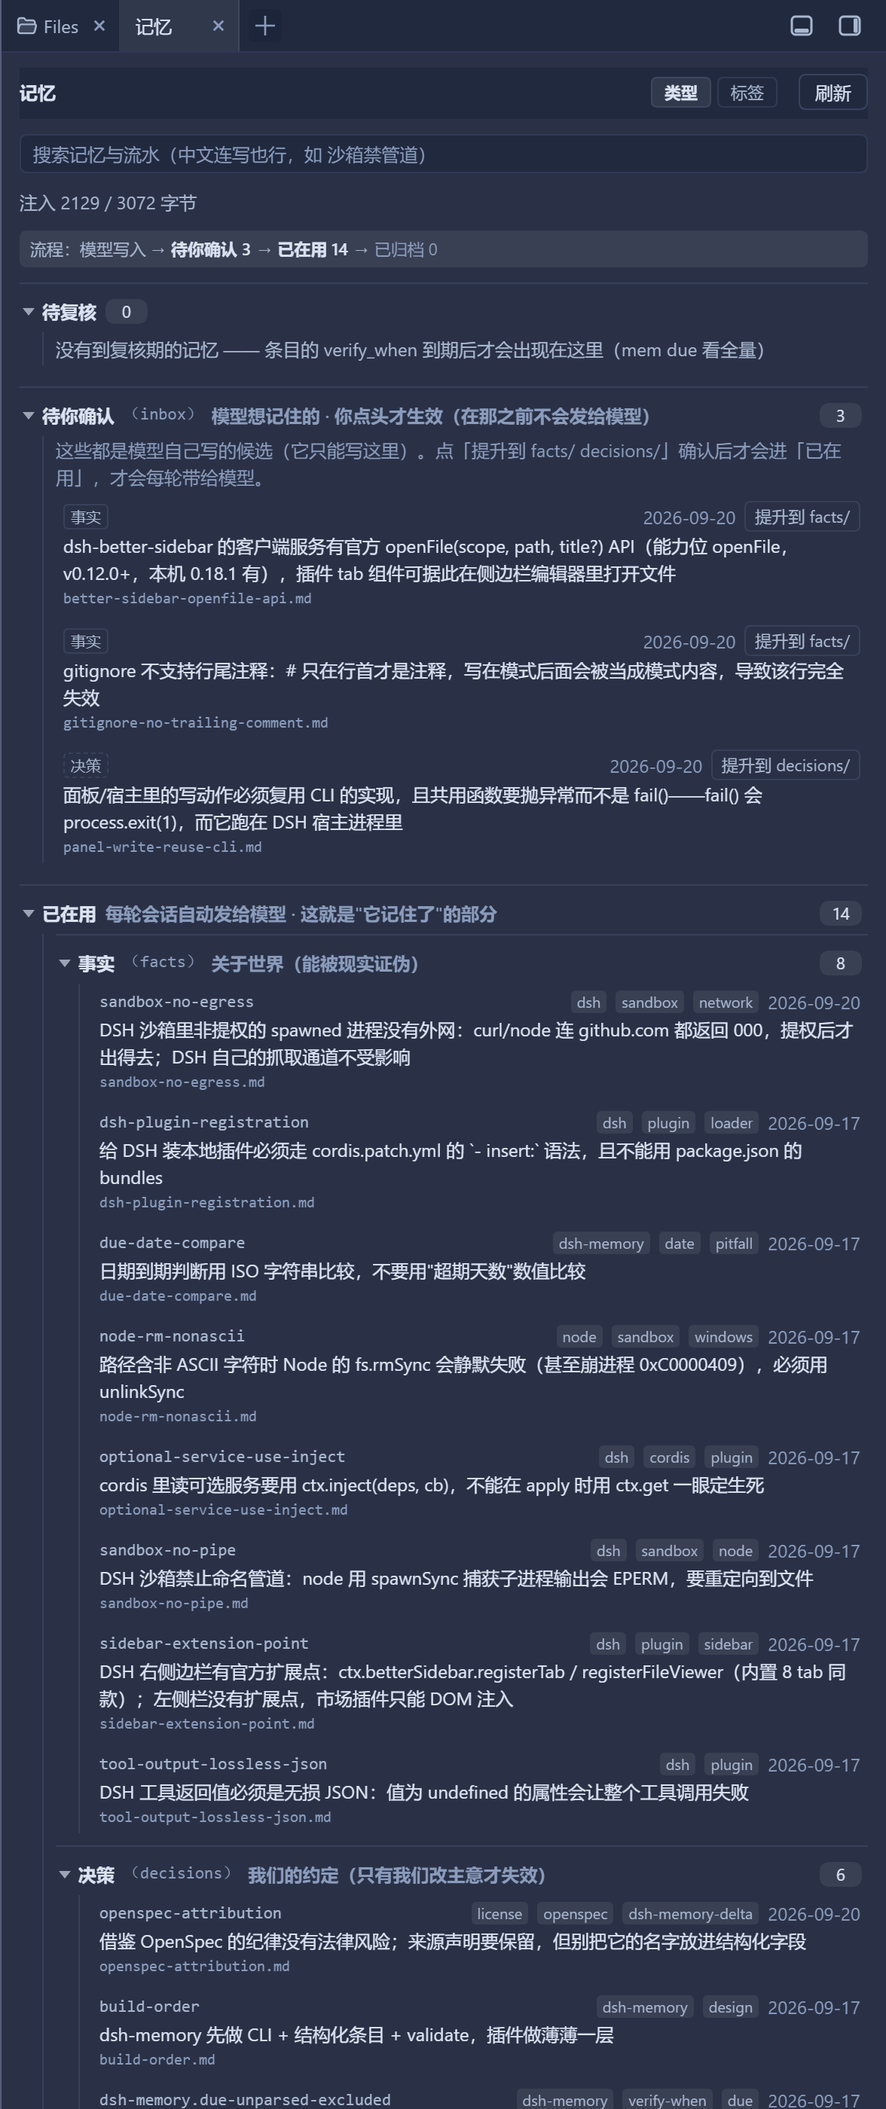
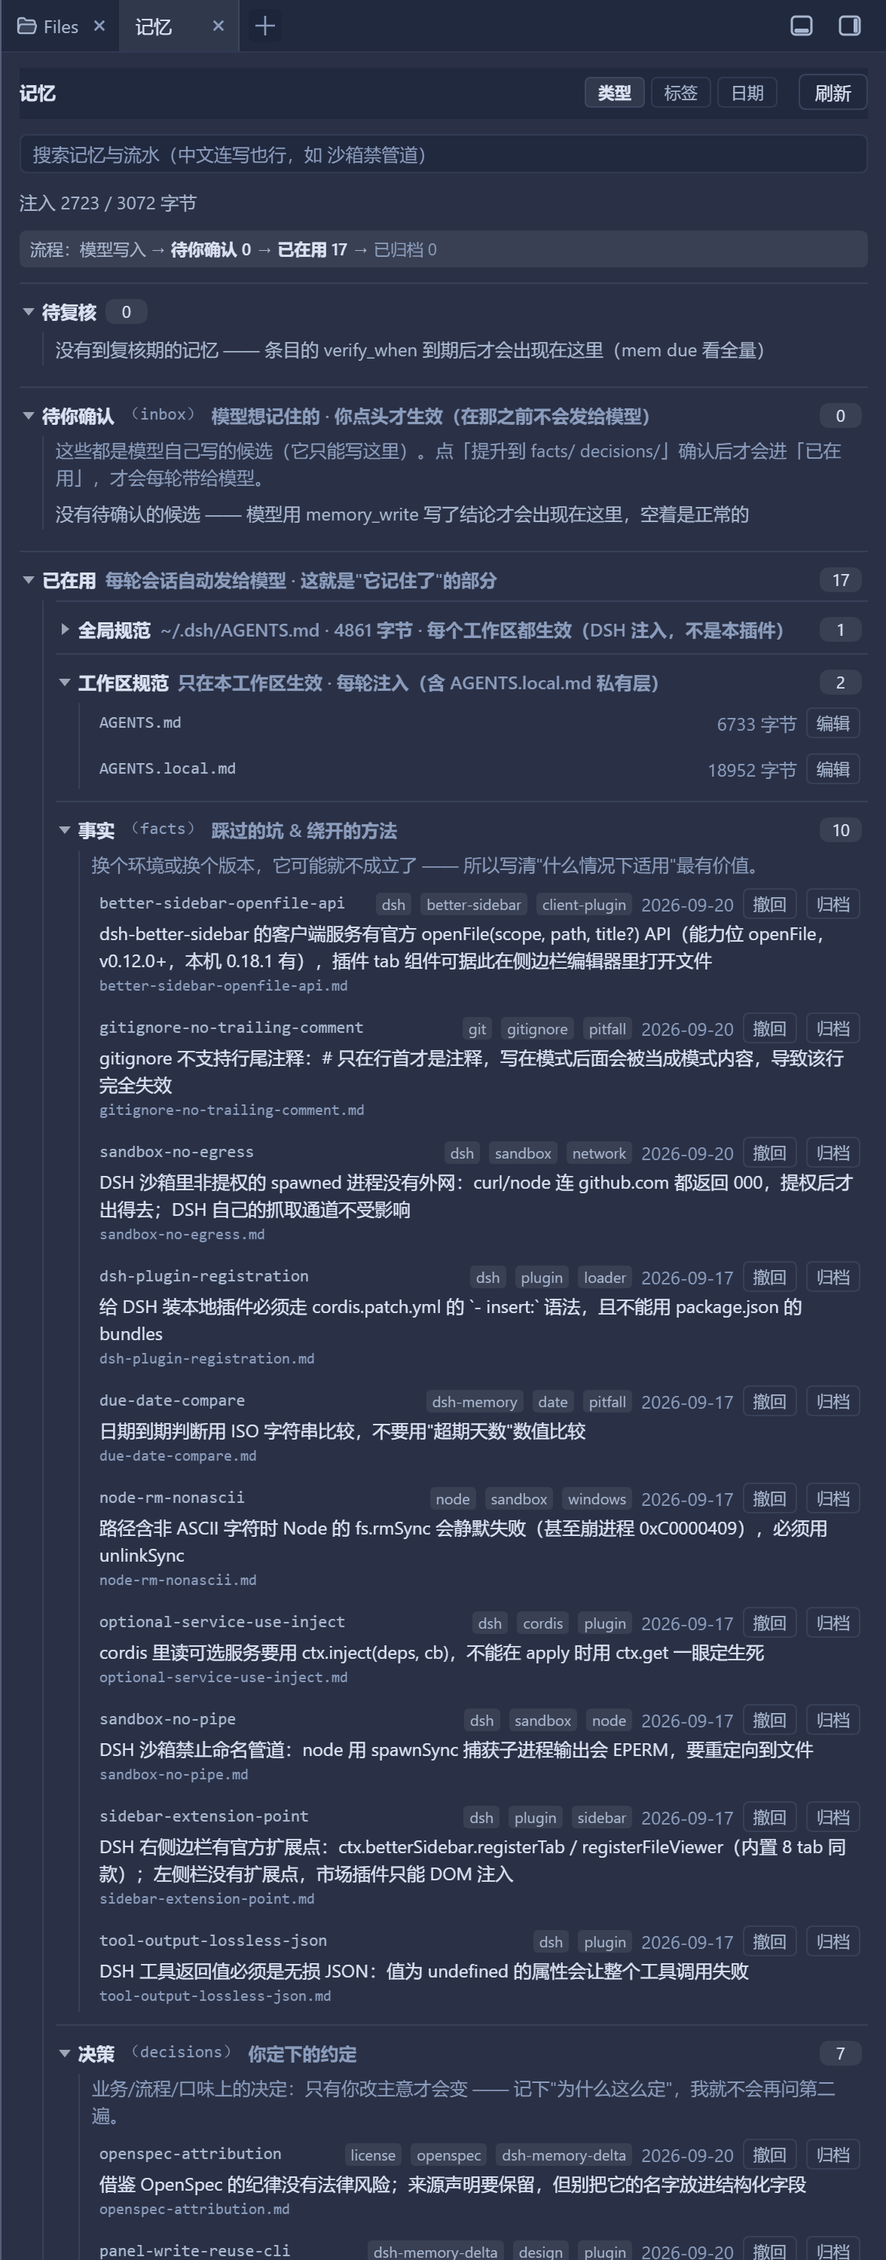
面板加第三个分组维度「日期」+ 重拍 README 截图
用户问能不能"按年月日区分"，评估结论：能做，而且**纯客户端**（条目本来就带 date，宿主不用改、不用重启）。

- 头部三档切换：类型（事实/决策，回答"该放哪边"）/ 标签（按主题）/ 日期（同一天一组，新的在前）
- 日期分组带人话标注：今天 / 昨天 / 前天 / 周几 —— 用宿主回传的 state.today 算差，不靠浏览器本地时区猜
- 日期视图里条目自己标出是事实还是决策（复用 showType），否则丢了类型信息
- 没写 date 的条目归到最后的「没有日期」，不静默丢掉
- **不做**"按年月/时间轴/热力图"：日粒度已经够回答"我什么时候记的这条"，
  再往上就是早前被否掉的看板类过度设计
- 重拍 README 截图：现在含三个维度按钮、全局/工作区规范、撤回+归档按钮、阶段分组
- 文档：README 中英面板行补三个维度；design.md 第⑩节记下取舍；断言数同步到 825

全套 817 → 825 断言绿（client 170→178）

diff --git a/client/client.js b/client/client.js
@@ -1112,6 +1112,16 @@ window.__ModuleLoader__.load({
             { type: 'button', className: groupBy === 'tag' ? 'is-on' : undefined, onClick: () => setGroupBy('tag'), title: '按标签分组（取每条的第一个标签）' },
             '标签',
           ),
+          h(
+            'button',
+            {
+              type: 'button',
+              className: groupBy === 'date' ? 'is-on' : undefined,
+              onClick: () => setGroupBy('date'),
+              title: '按记录日期分组（同一天的归一组，新的在前）',
+            },
+            '日期',
+          ),
         ),
         h(
           'button',
@@ -1328,6 +1338,37 @@ window.__ModuleLoader__.load({
         return named;
       };
 
+      /**
+       * 按记录日期分组（第三个维度）：
+       * 同一天归一组、**新的在前**；日期还带上人话（今天 / 昨天 / 周几），
+       * 这样"我什么时候记的这条"一眼就有 —— 比一串 ISO 日期好读。
+       */
+      const TODAY = typeof state.today === 'string' && /^\d{4}-\d{2}-\d{2}$/.test(state.today) ? state.today : null;
+      const dayLabel = (day) => {
+        if (day === '__nodate__') return '没有日期';
+        if (!TODAY) return day;
+        const diff = (Date.parse(`${TODAY}T00:00:00Z`) - Date.parse(`${day}T00:00:00Z`)) / 86400000;
+        if (diff === 0) return `${day}（今天）`;
+        if (diff === 1) return `${day}（昨天）`;
+        if (diff === 2) return `${day}（前天）`;
+        const week = '日一二三四五六'[new Date(`${day}T00:00:00Z`).getUTCDay()];
+        return diff > 0 ? `${day}（周${week}）` : `${day}（未来）`;
+      };
+      const dateGroups = () => {
+        const map = new Map();
+        for (const e of entries) {
+          const day = typeof e.date === 'string' && /^\d{4}-\d{2}-\d{2}$/.test(e.date) ? e.date : '__nodate__';
+          if (!map.has(day)) map.set(day, []);
+          map.get(day).push(e);
+        }
+        const days = [...map.entries()].filter(([k]) => k !== '__nodate__');
+        // ISO 日期字符串按字典序倒排 == 时间倒序（新的一天在最上面）
+        days.sort((a, b) => b[0].localeCompare(a[0]));
+        const nodate = map.get('__nodate__');
+        if (nodate) days.push(['__nodate__', nodate]);
+        return days;
+      };
+
       const facts = entries.filter((e) => e.type === 'fact');
       const decisions = entries.filter((e) => e.type === 'decision');
       const other = entries.filter((e) => e.type !== 'fact' && e.type !== 'decision');
@@ -1336,7 +1377,8 @@ window.__ModuleLoader__.load({
          阶段视角：这一层 = "每轮会话都会自动发给模型"的结论。
          类型（事实/决策）是**这一层内部**的子分组 —— 它回答的是"这条该放哪边"，
          不是"这条在流程哪一步"。以前把类型放在最外层，于是流程位置只能靠小字注释，
-         结果是"一眼看不出是干啥的"（真实反馈）。 */
+         结果是"一眼看不出是干啥的"（真实反馈）。
+         三个维度可切换：类型（该放哪边）/ 标签（按主题）/ 日期（什么时候记的）。 */
       const standingBody =
         groupBy === 'tag'
           ? tagGroups().map(([tag, list]) =>
@@ -1353,7 +1395,22 @@ window.__ModuleLoader__.load({
                 byDateDesc(list).map((e) => renderItem(e, { showType: true })),
               ),
             )
-          : [
+          : groupBy === 'date'
+            ? dateGroups().map(([day, list]) =>
+                section(
+                  {
+                    key: `date:${day}`,
+                    title: dayLabel(day),
+                    slug: null,
+                    count: list.length,
+                    hint: day === '__nodate__' ? '条目没写 date' : '按记录日期',
+                    open: isOpen(`date:${day}`),
+                    onToggle: () => toggleSection(`date:${day}`),
+                  },
+                  byDateDesc(list).map((e) => renderItem(e, { showType: true })),
+                ),
+              )
+            : [
               groupSection(
                 'facts',
                 '事实',

diff --git a/README.md b/README.md
@@ -12,7 +12,7 @@ zero-dependency standalone CLI. It borrows the *spec / change / archive* discipl
 > please file issues and pull requests on GitHub.
 
 > Status: **M1–M4 done**; M3/M4 (differential injection, both tools, the distillation nudge) were
-> verified inside a real DSH session, and the M5 improvements below are covered by 802 assertions
+> verified inside a real DSH session, and the M5 improvements below are covered by 825 assertions
 > plus a real-machine preflight. See [Verification](#verification).
 
 ## Why
@@ -144,7 +144,7 @@ Seven rules:
 | `memory_write` | Record a candidate into the inbox — **the model cannot touch the standing layer** |
 | Distillation nudge | Once a session has run a few steps and memory is already current, it reminds the model to record conclusions with `memory_write`; one nudge per session, and the nudge message carries **no state**, so it cannot corrupt the diff baseline |
 | Due-for-review reminder | `verify_when` is no longer a dead field: when an entry reaches its review date, the session is told once — "this conclusion may be stale, re-check it" — with the exact command to supersede or expire it. Prose values (`等换机器时`) never trigger it, so the reminder can always be resolved; it fires only on a step that injects nothing else, and it carries **no state** either |
-| Sidebar memory tab | With [dsh-better-sidebar](https://github.com/omdsh-dev/DSH-better-sidebar) installed, a **记忆** tab lists collapsible groups (a drawn caret, so it is obvious they open), the standing entries, the due-for-review items and the inbox candidates, plus the current injection size and a **search box** (searches entries *and* the journal, Chinese run-together queries included — it is the **same scoring** as `mem recall` and the model's `memory_search`). **Clicking an entry opens its `.md`** through better-sidebar's official `openFile` (preview/edit in the sidebar editor). Groups are viewable by **type** (facts/decisions) or by **tag** (each entry's first tag). The client half is a **hand-written, zero-build browser bundle** (a `window.__ModuleLoader__.load({id, factory})` wrapper, no bundler); its data comes from this plugin's own read-only `POST /dsh-memory-delta/state` and `POST /dsh-memory-delta/search` routes — loopback-only, JSON in / JSON out, reading nothing but the memory store. The one route that *writes* is `POST /dsh-memory-delta/action` (inbox promote / safe rename, below); turn it off with `allowWrite: false` |
+| Sidebar memory tab | With [dsh-better-sidebar](https://github.com/omdsh-dev/DSH-better-sidebar) installed, a **记忆** tab groups entries **by stage in the flow** (`待你确认 → 已在用 → 已归档`, each with one plain-language line plus a flow strip on top), collapsible (a drawn caret), with a **search box** (entries *and* the journal, Chinese run-together queries included — the **same scoring** as `mem recall` and the model's `memory_search`). The standing layer can be viewed along **three axes**: **type** (facts/decisions — "which side does it belong to"), **tag** (by topic) and **date** (when it was recorded, labelled today / yesterday / weekday). **Clicking an entry opens its `.md`** through better-sidebar's official `openFile` (preview/edit in the sidebar editor). **Both directions**: candidates can be promoted, standing entries can be **withdrawn** (back to candidates) or **archived**, archived ones **restored**, candidates **deleted** — every destructive action goes through an **inline confirm bar** (never `window.confirm`, which blocks the page and would hang headless screenshots). The standing layer also shows the **global instructions** (`~/.dsh/AGENTS.md`, injected by DSH into every workspace — read-only preview, collapsed by default) and the **workspace instructions** (`AGENTS.md` / `AGENTS.local.md`, with an **Edit** button that opens them in the sidebar editor). The client half is a **hand-written, zero-build browser bundle** (a `window.__ModuleLoader__.load({id, factory})` wrapper, no bundler); its data comes from this plugin's own read-only `POST /dsh-memory-delta/state` and `POST /dsh-memory-delta/search` routes — loopback-only, JSON in / JSON out, reading nothing but the memory store. The one route that *writes* is `POST /dsh-memory-delta/action` (promote / withdraw / archive / restore / delete candidate / safe rename); turn it off with `allowWrite: false` |
 | Why editing/deleting memory is *not* built into the panel | The sidebar already ships an editor (opening an entry is enough) and a file tree with confirmed rename/delete. Re-implementing full CRUD in the panel would be duplication plus a permanent maintenance tax, so the panel offers **entry points** plus **the two actions that genuinely need human judgement**: open file, **one-click promote** of an inbox candidate (the human-confirmation step finally has a UI) and **tidy the file name** (`mem rename`: id + file name + references together). **Pure "jump to the folder" buttons are deliberately not built** — a caret to expand plus clicking an entry for detail is enough, and an extra button only adds noise plus a route that launches an external process. ⚠ Do **not** rename memory entries through the file tree — the `id` lives in the frontmatter and must match the file name, or `mem validate` reports `id 与文件名不一致`; that is exactly why renaming is a dedicated safe operation instead of free-form editing |
 
 The plugin never spawns the CLI: the DSH sandbox forbids named pipes (capturing a child's output fails
@@ -215,7 +215,7 @@ Checked item by item inside a real DSH session:
 ## Development
 
 ```bash
-npm test        # 802 assertions, zero dependencies
+npm test        # 825 assertions, zero dependencies
 ```
 
 | Suite | Assertions | Covers |
@@ -225,8 +225,8 @@ npm test        # 802 assertions, zero dependencies
 | `test/search-tests.mjs` | 51 | tokenizing / scoring / snippet selection (pure logic) |
 | `test/due-tests.mjs` | 93 | `verify_when` parsing (dates, relative phrases, prose) and due collection (pure logic) |
 | `test/hook-tests.mjs` | 63 | plugin wiring (fake agent / decision): diff injection, nudge, due reminder |
-| `test/plugin-tests.mjs` | 209 | plugin integration (stubbed DSH modules, real `apply()` + both tools + both panel routes + promote/rename actually writing the store + whitelist/origin checks) |
-| `test/client-tests.mjs` | 165 | the sidebar panel bundle (fake React + fake `fetch`: grouping/collapse, entry click → `openFile`, promote/tidy, failure states) |
+| `test/plugin-tests.mjs` | 217 | plugin integration (stubbed DSH modules, real `apply()` + both tools + both panel routes + promote/rename actually writing the store + whitelist/origin checks) |
+| `test/client-tests.mjs` | 178 | the sidebar panel bundle (fake React + fake `fetch`: grouping/collapse, entry click → `openFile`, promote/tidy, failure states) |
 
 `test/plugin-tests.mjs` replaces the four `@deepseek-ai/*` packages with the stubs in `test/stubs/`
 (via `test/stub-loader.mjs`) and **actually `apply()`s the plugin**, so its behaviour is verifiable

diff --git a/README.zh.md b/README.zh.md
@@ -129,7 +129,7 @@ AI 编码助手有两个反复出现的毛病：
 | `memory_write` | 把候选条目写进 inbox —— **模型不允许直接改事实层** |
 | 蒸馏提醒 | 会话跑过若干轮而记忆已是最新时，提醒模型把本次结论落到 inbox；每会话只提醒一次，且提醒消息**不带状态**，不污染差分基线 |
 | 到期复核提醒 | `verify_when` 不再是死字段：条目到了当初约定的复核期，会话里会**提醒一次**"这条结论可能过时了，请复核"，并给出该用哪条命令取代/标过期。写成**人话**的值（`等换机器时`）永远不会触发它（否则每个会话都弹一次、怎么改都消不掉）；只在"本轮本来不注入任何记忆"时才提醒，同样**不带状态** |
-| 侧边栏「记忆」页签 | 装了 [dsh-better-sidebar](https://github.com/omdsh-dev/DSH-better-sidebar) 后，侧边栏多一个**记忆**页：**按流程阶段分组**（`待你确认 → 已在用 → 已归档`，每组一句人话 + 顶部一条流程条）、可折叠（自绘箭头）、**搜索框**（搜条目 + 流水，中文连写也行 —— 与 `mem recall`、模型用的 `memory_search` 是**同一套打分**）。**点某条记忆 = 打开它那个 `.md`**（走 better-sidebar 的官方 `openFile`，在侧边栏编辑器里预览/编辑）。**双向迁移**：候选「提升到 facts/ decisions/」⇄ 常驻「撤回」，候选还可「删除」——**危险动作一律走行内确认条**（不用会阻塞无头截图的浏览器原生 `confirm`）。「已在用」里还会显示**全局规范**（`~/.dsh/AGENTS.md`：DSH 注入、每个工作区都生效，只读预览 + 默认折叠）与**工作区规范**（`AGENTS.md` / `AGENTS.local.md`，**可直接点「编辑」进侧边栏编辑器** —— 它们在工作区内，编辑器允许打开）。客户端半边是**手写的零构建浏览器 bundle**（`window.__ModuleLoader__.load({id, factory})` 包装，不引入任何打包器）；数据来自本插件自己的只读路由 `POST /dsh-memory-delta/state` 与 `POST /dsh-memory-delta/search` —— 仅回环、JSON 进 JSON 出、不碰别的文件。唯一会**写**的路由是 `POST /dsh-memory-delta/action`（提升 / 撤回 / 删除候选 / 安全改名），可用 `allowWrite: false` 关掉 |
+| 侧边栏「记忆」页签 | 装了 [dsh-better-sidebar](https://github.com/omdsh-dev/DSH-better-sidebar) 后，侧边栏多一个**记忆**页：**按流程阶段分组**（`待你确认 → 已在用 → 已归档`，每组一句人话 + 顶部一条流程条）、可折叠（自绘箭头）、**搜索框**（搜条目 + 流水，中文连写也行 —— 与 `mem recall`、模型用的 `memory_search` 是**同一套打分**）。「已在用」可按**三个维度**看：**类型**（事实/决策，回答"该放哪边"）/ **标签**（按主题）/ **日期**（什么时候记的，带"今天/昨天/周几"人话标注）。**点某条记忆 = 打开它那个 `.md`**（走 better-sidebar 的官方 `openFile`，在侧边栏编辑器里预览/编辑）。**双向迁移**：候选「提升到 facts/ decisions/」⇄ 常驻「撤回」，常驻还能「归档」、归档能「取回」，候选可「删除」——**危险动作一律走行内确认条**（不用会阻塞无头截图的浏览器原生 `confirm`）。「已在用」里还会显示**全局规范**（`~/.dsh/AGENTS.md`：DSH 注入、每个工作区都生效，只读预览 + 默认折叠）与**工作区规范**（`AGENTS.md` / `AGENTS.local.md`，**可直接点「编辑」进侧边栏编辑器** —— 它们在工作区内，编辑器允许打开）。客户端半边是**手写的零构建浏览器 bundle**（`window.__ModuleLoader__.load({id, factory})` 包装，不引入任何打包器）；数据来自本插件自己的只读路由 `POST /dsh-memory-delta/state` 与 `POST /dsh-memory-delta/search` —— 仅回环、JSON 进 JSON 出、不碰别的文件。唯一会**写**的路由是 `POST /dsh-memory-delta/action`（提升 / 撤回 / 归档 / 取回 / 删除候选 / 安全改名），可用 `allowWrite: false` 关掉 |
 | 为什么不把"编辑/删除记忆"做进面板 | 侧边栏**本来就有**编辑器（点条目即打开）和文件树（重命名/删除带确认）。在面板里再造一套完整增删改 = 重复实现 + 长期维护负担，所以面板只做**入口**加**几个真正需要判断的动作**：打开文件、候选**提升**、常驻**撤回**、候选**删除**、**整理文件名**（`mem rename`：id + 文件名 + 引用一起改）。**"跳到目录"这类纯跳转按钮不做** —— 折叠箭头看内容 + 点条目打开详情已经够，多一个按钮只多一份噪音和一条会启动外部进程的路由。⚠ **不要**用文件树直接给记忆条目改名 —— `id` 写在 frontmatter 里且必须与文件名一致，`mem validate` 会报 `id 与文件名不一致`；这正是不做自由改名、只做"安全改名"的原因。**常驻条目不能直接删**（那等于静默消失）—— 它的出路是「撤回」或取代/标过期 |
 
 为什么插件**不去 spawn CLI**：DSH 沙箱禁止命名管道，捕获子进程输出会 EPERM；而且没必要 ——
@@ -202,7 +202,7 @@ mem journal add "流水一行"
 ## 开发
 
 ```bash
-npm test        # 802 个断言，零依赖
+npm test        # 825 个断言，零依赖
 ```
 
 | 套件 | 断言 | 覆盖 |
@@ -212,8 +212,8 @@ npm test        # 802 个断言，零依赖
 | `test/search-tests.mjs` | 51 | 分词 / 打分 / 片段选择（纯逻辑） |
 | `test/due-tests.mjs` | 93 | `verify_when` 解析（日期、相对说法、人话）与到期收集（纯逻辑） |
 | `test/hook-tests.mjs` | 63 | 插件接线（假 agent / decision）：差分注入、蒸馏提醒、到期提醒 |
-| `test/plugin-tests.mjs` | 209 | 插件集成（桩 DSH 模块，真 apply + 两个工具 + 两条面板路由 + promote/rename 真的写库 + 白名单/来源校验） |
-| `test/client-tests.mjs` | 165 | 侧边栏面板 bundle（假 React + 假 `fetch`：分组/折叠、点条目调 openFile、提升/整理文件名、失败态） |
+| `test/plugin-tests.mjs` | 217 | 插件集成（桩 DSH 模块，真 apply + 两个工具 + 两条面板路由 + promote/rename 真的写库 + 白名单/来源校验） |
+| `test/client-tests.mjs` | 178 | 侧边栏面板 bundle（假 React + 假 `fetch`：分组/折叠、点条目调 openFile、提升/整理文件名、失败态） |
 
 `test/plugin-tests.mjs` 用 `test/stubs/` 下的桩模块替换 4 个 `@deepseek-ai/*` 包，
 通过 `test/stub-loader.mjs` **真正 `apply()` 这个插件并驱动它**，所以即使没有 DSH 也能验证插件行为。

diff --git a/docs/design.md b/docs/design.md
@@ -233,7 +233,7 @@ verify_when: Windows 大版本更新后重新评估
   - ② **检索变准**：`src/search.mjs`（词/中文 bigram 分词 + 加权打分 + 命中片段），
     `mem recall` 与插件 `memory_search` 共用同一套实现。
   - ③ **`verify_when` 落地成会话内提醒**：把死字段变成"到点了主动提醒你复核"。
-  - 测试 **802 个断言全绿**（CLI 180 + planner 43 + search 51 + due 93 + hook 63 + plugin 209 + client 165），
+  - 测试 **825 个断言全绿**（CLI 180 + planner 43 + search 51 + due 93 + hook 63 + plugin 217 + client 178），
     真机预检 15/15。
   - **明确不做**（用户判定过度设计）：仪表盘/健康度看板、使用计数器、相关性推送的复杂机制。
 
@@ -551,6 +551,19 @@ DSH 注入的还有 `<工作区>/AGENTS.md` 与 `AGENTS.local.md`（项目层）
 （这一条有测试钉住）。
 
 `restore` 刻意放回**候选层**而不是直接回常驻：取回之后还要人再确认一次，不绕过"人确认"那道闸。
+
+**⑩ 三个维度：类型 / 标签 / 日期（M11）。**
+用户问能不能"按年月日区分"。能，而且**纯客户端**（条目本来就带 `date`，宿主不用改、不用重启）：
+
+- 头部一个三档切换：**类型**（事实/决策 —— 回答"该放哪边"）/ **标签**（取第一个标签，按主题）/
+  **日期**（同一天一组，新的在前）。
+- 日期分组带**人话标注**：今天 / 昨天 / 前天 / 周几 —— 比一串 ISO 日期好读
+  （用宿主回传的 `state.today` 算差，不靠浏览器本地时区猜）。
+- 日期视图里条目**自己标出**是事实还是决策（复用已有的 `showType`），否则就丢了类型信息。
+- 没写 `date` 的条目归到最后的「没有日期」，不静默丢掉。
+
+**为什么不做"按年月"或时间轴**：日粒度已经能回答"我什么时候记的这条"；再往上就是
+时间轴/热力图那一类"看板"，早前已判定为过度设计（用户明确否掉过仪表盘与计数器）。
 
 **⑦ 已知小瑕疵：改名会让注入"抖一下"。** `entryHash` 算了 `id`，而 planner 跨轮也是按 `id` 匹配
 条目的 —— 所以**纯改名**会被差分看成"旧 id 消失 + 新 id 出现"，于是那一轮多推一遍该条内容
